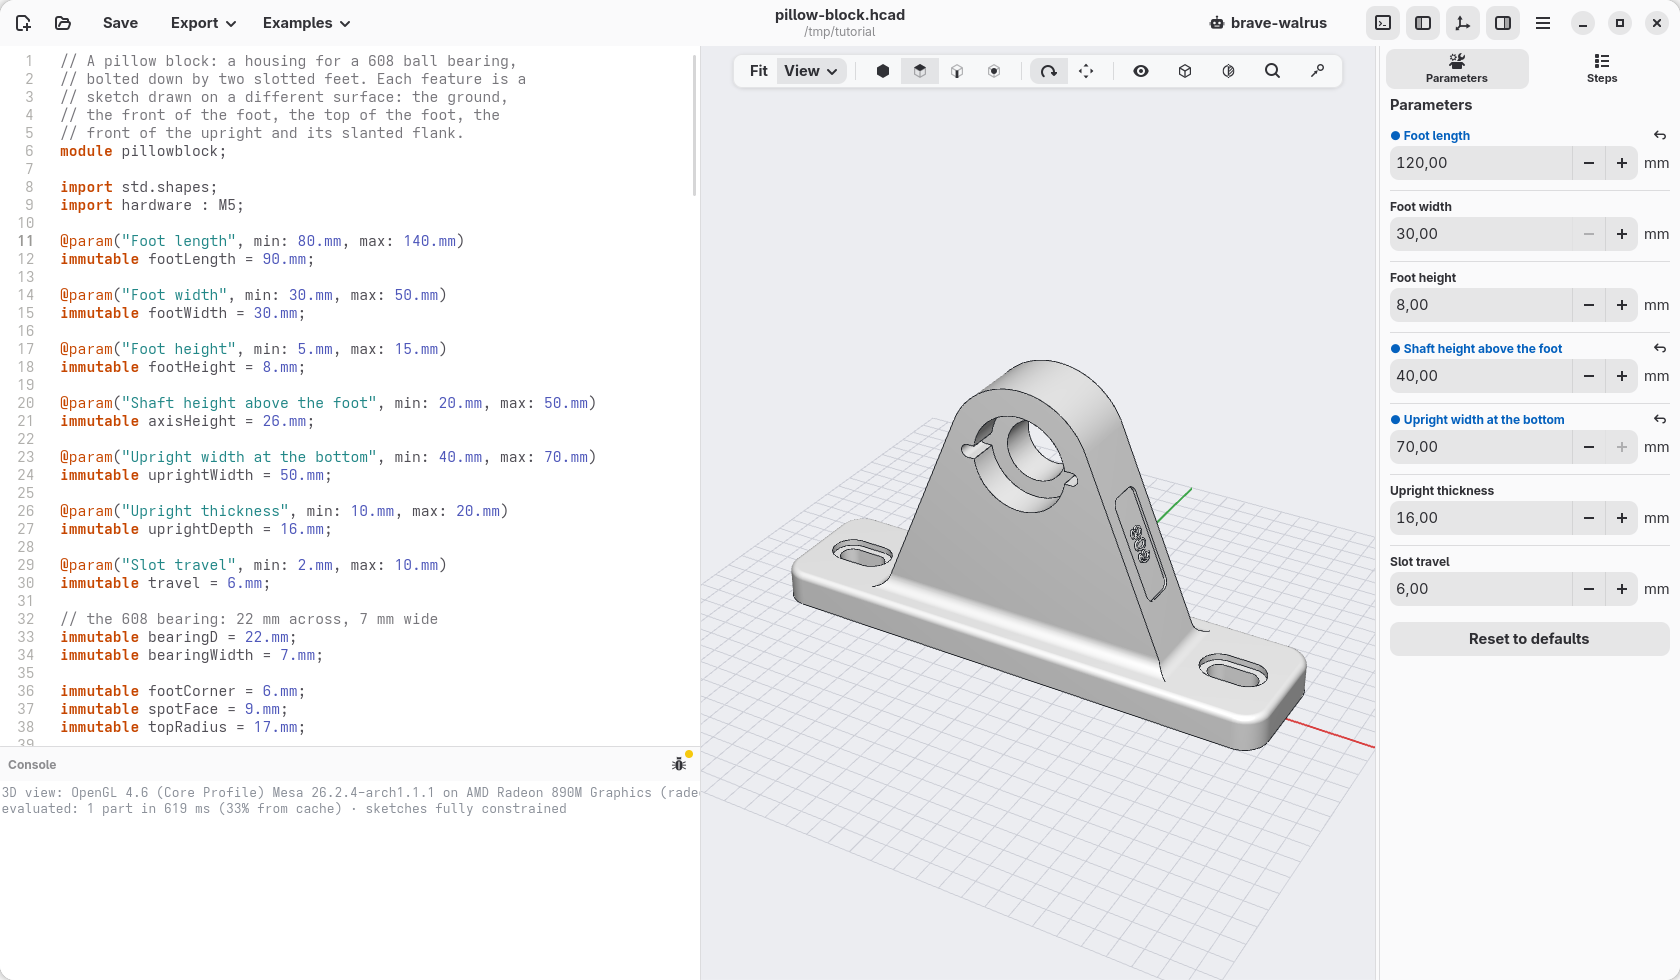
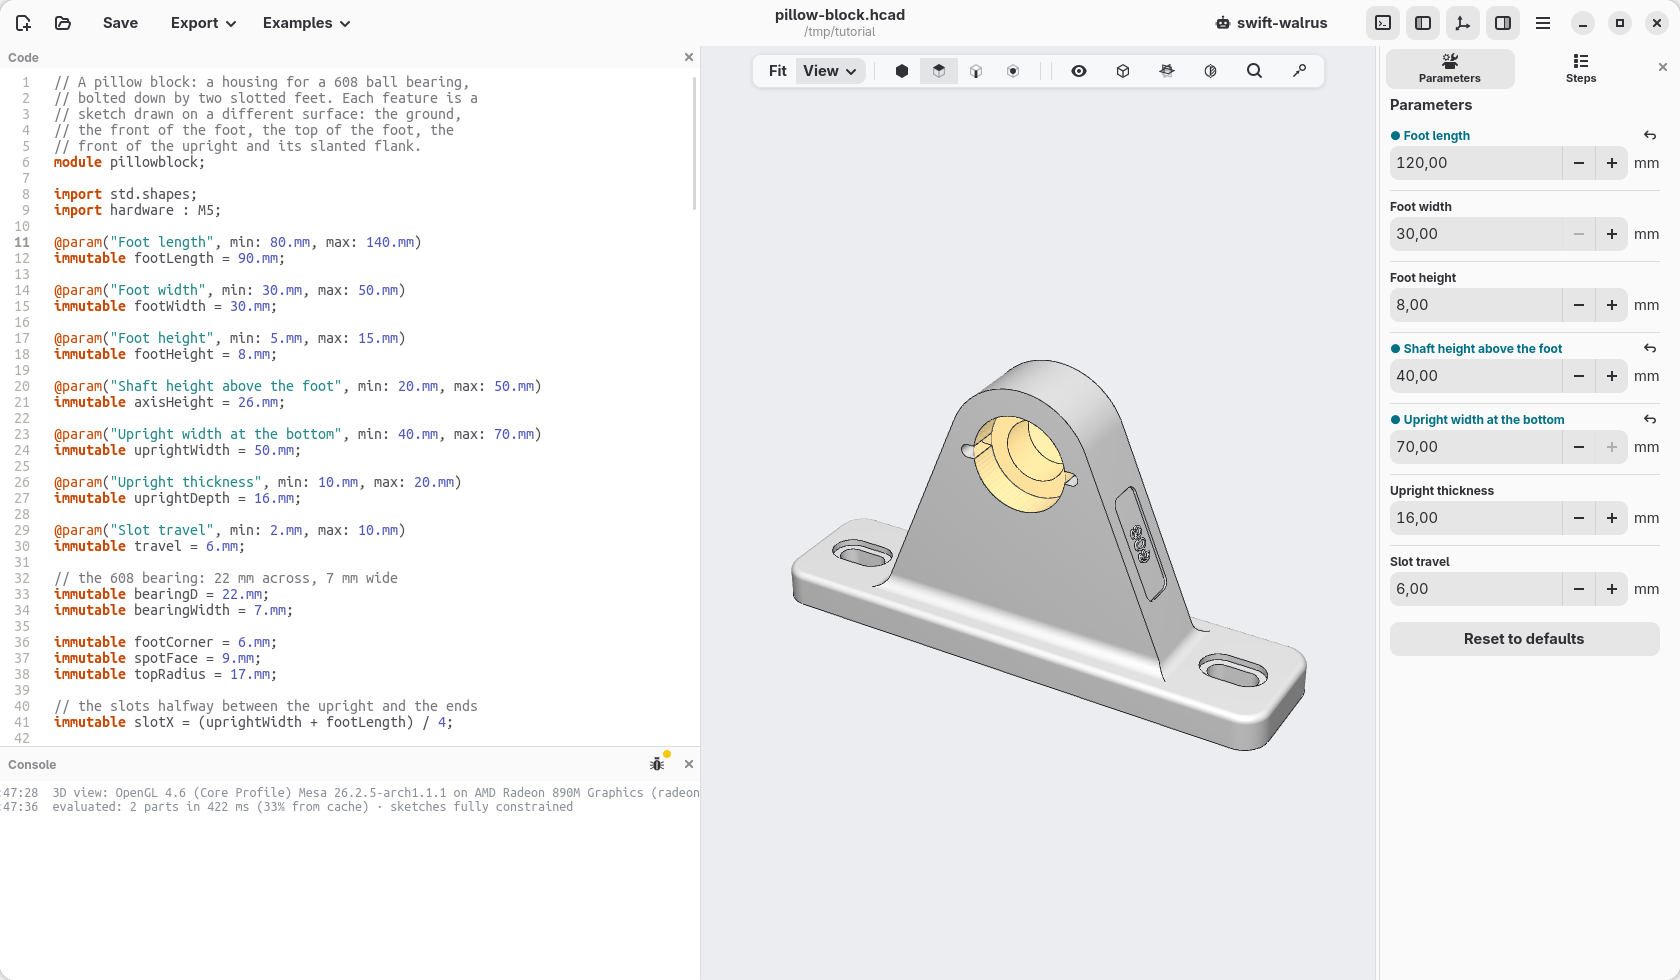
The pillow block's bearing seat cut whole (the notch's overlap filled), the bearing shown in it as a reference and checked

diff --git a/docs/tutorial/14-pillow-block.md b/docs/tutorial/14-pillow-block.md
@@ -206,6 +206,25 @@ The seat is 0.2 mm deeper than the bearing is wide, so the bearing does
 not stand out of it. Behind it, the smaller hole of the upright's sketch
 leaves room for the shaft.
 
+The seat's sketch has one more line, `s.fill(c)`. A profile fills what lies
+inside an odd number of loops, so where the notch crosses the circle the two
+loops would leave their overlap empty: two little blocks would stay in the
+seat, in the bearing's way. `s.fill` makes the area round the centre full,
+and the notch is cut all across.
+
+```d
+    s.circle(c, d: bearingD);
+    s.slot(bearingD + 6.mm, 3.mm, center: c);
+
+    // where the notch crosses the seat, cut too: two
+    // loops over each other leave their overlap empty
+    s.fill(c);
+```
+
+At the end of the model the bearing itself is a see-through part, not
+exported: it shows how it goes in, from the front, and a unittest checks
+that nothing is in its way.
+
 ## 5. A label, on the slanted flank
 
 The last sketch is a sunk panel with the letters left standing: a
